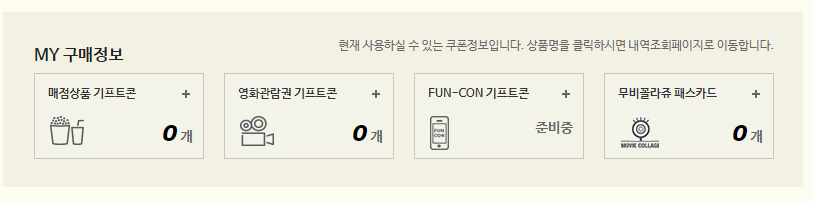
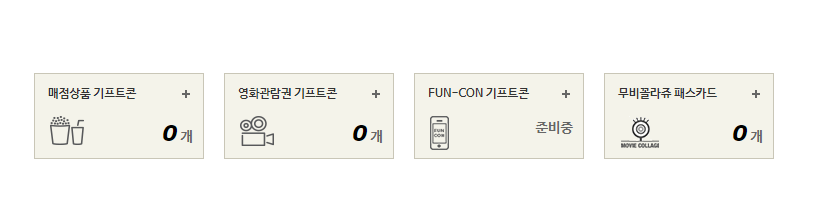
클라이언트 - 마이페이지 수정완료

diff --git a/src/main/webapp/css/mypage/mypageHome.css b/src/main/webapp/css/mypage/mypageHome.css
@@ -1,11 +1,10 @@
 /* 마이페이지홈 바디 전체 최상위 영역*/
 div#mypageBody {
 	width: 100%;
-	height: 900px;
+	height: 1200px;
 }
 /* 마이페이지홈 바디 전체 최상위의 한단계아래 영역, 여기는 mypageHome.jsp실행하면 먹히는 css */
 div#my-content-wrap {
-	border:1px solid red;
 	width: 970px;
 	height: 70%;
 	margin-top: 10px;
@@ -43,6 +42,7 @@ div.sect-content-movie div {
 	position: relative;
 	top:73px;
 	left: 197px;
+	
 }
 .sect-content-movie .box-innerwishlist a{
 	text-decoration:none;
@@ -55,8 +55,60 @@ div.sect-content-movie div {
 }
 .mypage_bottom_div{
  	position:relative;
- 	top:100px;
- 	left:100px;
-	border: 1px solid blue;
+ 	top:50px;
+ 	left:5px;
+	/* border: 1px solid blue; */
 	float: left;
+}
+.title-mypage_h3{
+	float: left;
+}
+#title-mypage_em1{
+	float: left;
+	position: relative;
+	top: 20px;
+	left: 50px;
+	
+}
+#title-mypage_em1_img1{
+	float: left;
+	position: relative;
+	top: 13px;
+	left: 50px;
+	
+}
+#mypagehome_border1_p{
+	font-size: 11px;
+	float: right;
+	margin-top: 20px;
+}
+#title-mypage_em2{
+	float: left;
+	position: relative;
+	top: 20px;
+	left: 50px;
+	
+}
+#title-mypage_em1_img2{
+	float: left;
+	position: relative;
+	top: 13px;
+	left: 50px;
+	
+}
+#mypagehome_border2_p{
+	font-size: 11px;
+	float: right;
+	margin-top: 20px;
+}
+#title-mypage_em1_img2_2{
+	margin-top: -40px;
+}
+#mypagehome_border2_p{
+	font-size: 11px;
+	float: right;
+	margin-top: 20px;
+}
+#title-mypage_em1_img3_3{
+	margin-top: -60px;
 }

diff --git a/src/main/webapp/css/mypage/mypage.css b/src/main/webapp/css/mypage/mypage.css
@@ -1,5 +1,12 @@
 @charset "UTF-8";
 
+
+div#mypageBody {
+	width: 100%;
+	height: 800px;
+	min-height: 100px;
+}
+
 div#my-info-wrap {
 	width: 971px;
 	height: 447px;
@@ -11,7 +18,6 @@ div#my-info-wrap > div {
 	height: 50%;
 }
 div#content-detail {
-	
 	float: left;
 	width: 80%;
 	height: 100%;
@@ -20,6 +26,7 @@ div#content-detail {
 
 div.profile > div {
 	float: left;
+
 }
 
 
@@ -34,6 +41,7 @@ div.profile > div {
 	height: 140px;
 }
 #my-info-wrap .personInfo{
+
 	position: relative;
 	left: 80px;
 	top: 56px;

diff --git a/src/main/webapp/css/mypage/myContentAside.css b/src/main/webapp/css/mypage/myContentAside.css
@@ -1,11 +1,12 @@
+
 .mypageHome_main_div{
 	width: 150px;
 	height: 233px;
 	float: left;
-	/* height: 1600px; 나중에맞쳐줘야함*/
 }
 
 .mypageHome_main_div ul{
+	
 	padding-left:0px;
 	list-style:none;
 	width: 100%;
@@ -29,6 +30,8 @@
 
 .mypageHome_main_div #content-aside{
 	width: 200px;
+/* 	border: 1px solid red; */
+	margin-left: -70px;
 }
 .mypageHome_main_div .myContentAside_a_tag:hover {
 	font-family: 'NanumBarunGothicBold', '맑은 고딕', '돋움', Dotum, sans-serif;
